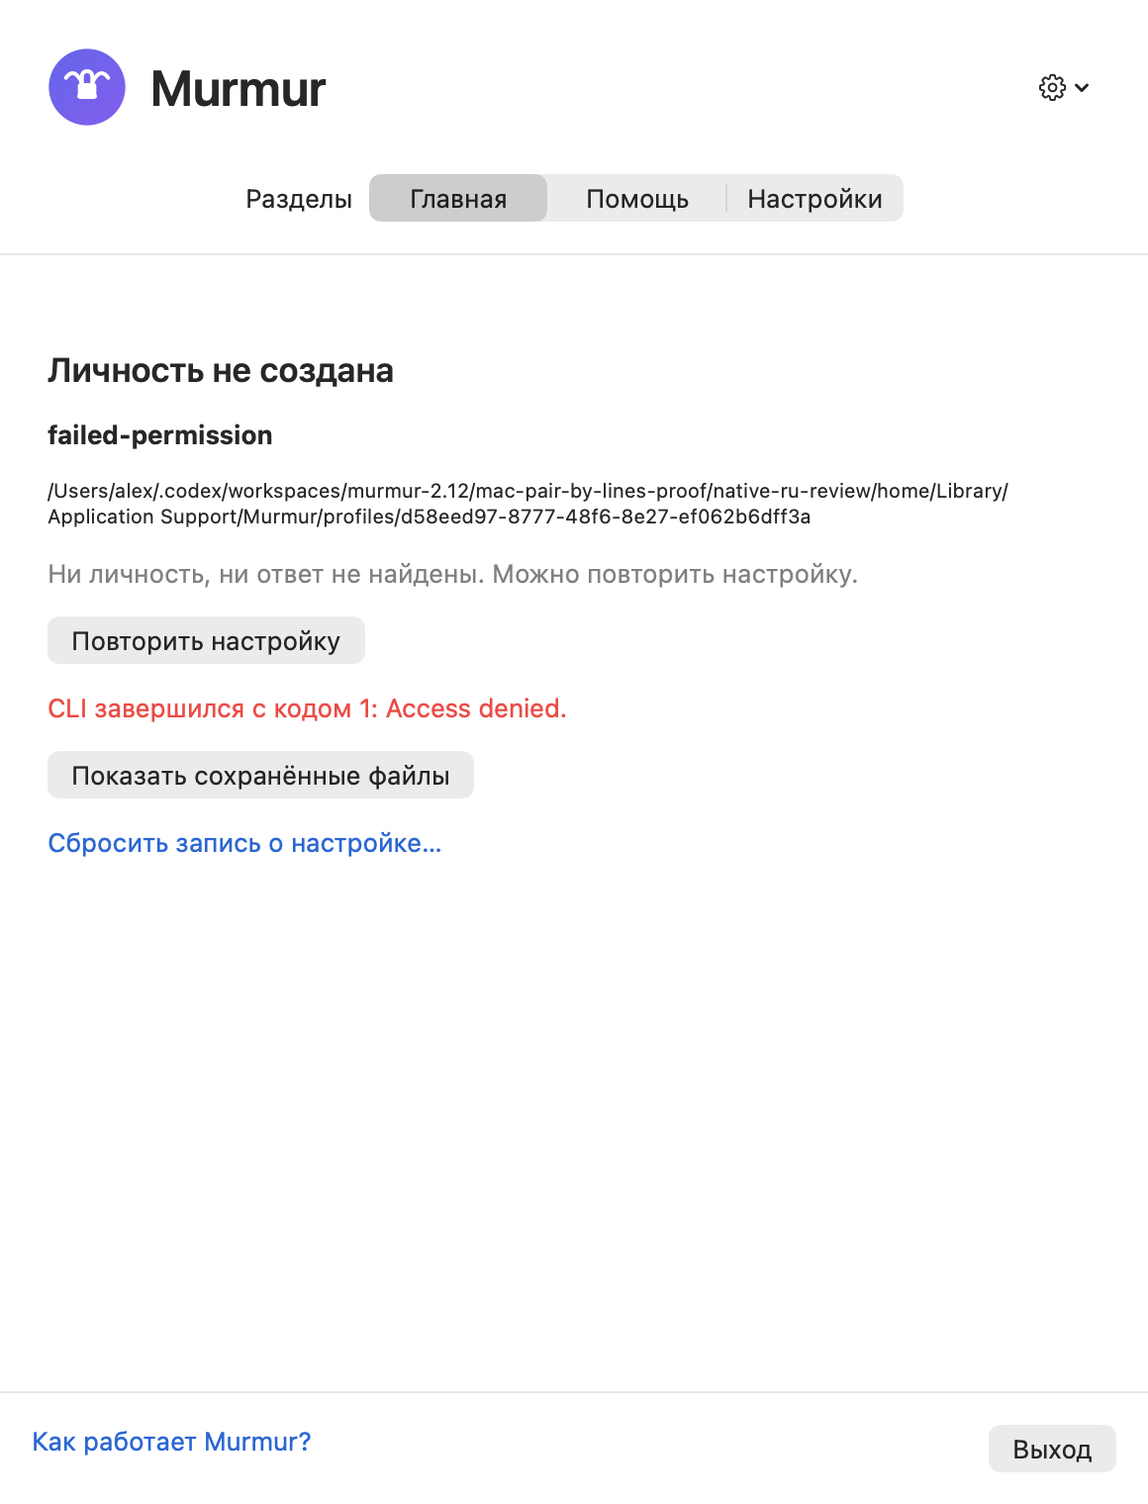
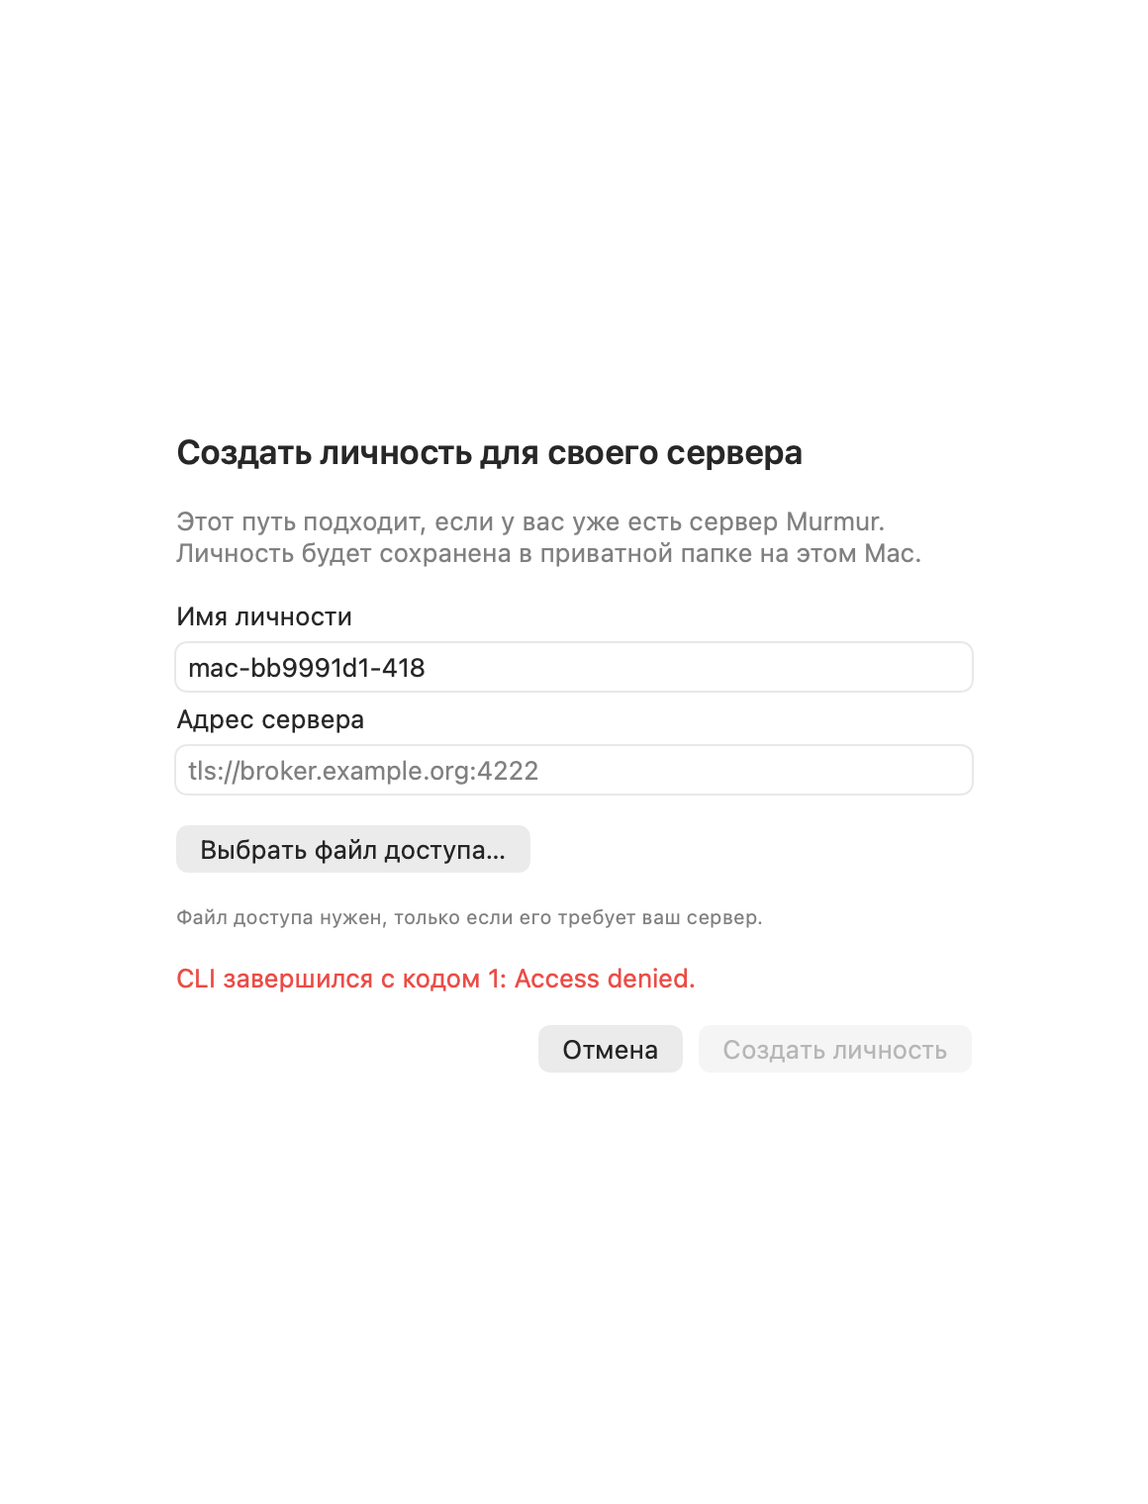
fix(mac): guard recovery pairing and preserve setup diagnostics

diff --git a/apps/macos-menubar/evidence/recovery-guards/render.swift b/apps/macos-menubar/evidence/recovery-guards/render.swift
@@ -1,0 +1,59 @@
+import AppKit
+import SwiftUI
+import MurmurTrayCore
+
+@main struct RecoveryEvidence {
+    @MainActor static func capture<V: View>(_ view: V, to path: URL) throws {
+        let host = NSHostingView(rootView: view.frame(width: 580, height: 720)
+            .background(Color(nsColor: .windowBackgroundColor)).environment(\.colorScheme, .light))
+        host.frame = NSRect(x: 0, y: 0, width: 580, height: 720)
+        let window = NSWindow(contentRect: host.frame, styleMask: [.borderless], backing: .buffered, defer: false)
+        window.appearance = NSAppearance(named: .aqua); window.contentView = host
+        host.layoutSubtreeIfNeeded(); host.displayIfNeeded()
+        let bitmap = host.bitmapImageRepForCachingDisplay(in: host.bounds)!
+        host.cacheDisplay(in: host.bounds, to: bitmap)
+        try bitmap.representation(using: .png, properties: [:])!.write(to: path)
+    }
+    @MainActor static func main() async throws {
+        let root = URL(fileURLWithPath: CommandLine.arguments[1]), language = CommandLine.arguments[2], stage = CommandLine.arguments[3]
+        precondition(FileManager.default.homeDirectoryForCurrentUser.path == root.appendingPathComponent("home").path)
+        _ = NSApplication.shared
+        UserDefaults.standard.setVolatileDomain(["interfaceLanguage": language], forName: UserDefaults.argumentDomain)
+        let pictures = root.appendingPathComponent("screenshots")
+        try FileManager.default.createDirectory(at: pictures, withIntermediateDirectories: true)
+        let model = TrayModel(startRuntime: false)
+        model.profile = try ProfileBinding(dataDirectory: root.appendingPathComponent("unavailable-identity").path)
+        model.agentID = "current-identity"
+        precondition(!model.busy && !model.canUseInvitation)
+        try capture(MurmurHomeView(model: model).firstRun.padding(24), to: pictures.appendingPathComponent("\(stage)-recovery-\(language).png"))
+        model.beginInviting()
+        precondition(model.showCreateProfileSheet == (stage == "before"))
+        print("PASS \(stage) \(language): bound Identity with unavailable status opens new Identity form = \(model.showCreateProfileSheet)")
+        let setup = TrayModel(startRuntime: false)
+        let access = root.appendingPathComponent("access-key.txt")
+        try "test-only\nsecond-line".write(to: access, atomically: true, encoding: .utf8)
+        setup.creationAgentID = "new-identity"; setup.creationServer = "nats://server.example.invalid:4222"; setup.creationAccessFile = access
+        setup.createOwnProfile(agentID: setup.creationAgentID, server: setup.creationServer, accessFile: access)
+        for _ in 0..<800 {
+            if !setup.busy { break }
+            try await Task.sleep(for: .milliseconds(50))
+        }
+        precondition(!setup.busy && setup.creationError != nil && setup.profile == nil)
+        let expected = stage == "before" ? ProbeError.failed(1).localizedDescription : L10n.text("The Server access key must be one line. Ask for the correct key and save it again.")
+        precondition(setup.creationError == expected && !setup.creationError!.contains("test-only"))
+        try capture(CreateProfileSheet(model: setup), to: pictures.appendingPathComponent("\(stage)-access-error-\(language).png"))
+        print("PASS \(stage) \(language): invalid access file presentation, no input value displayed")
+        let snapshot = try DoctorSnapshot.decode(JSONSerialization.data(withJSONObject: ["schema":"murmur.doctor/1", "generatedAt":"2026-09-24T16:00:00Z", "stages":[["id":"roundtrip", "state":"ok", "detail":"fixture", "elapsedMs":42]]]))
+        let row = snapshot.rows().first { $0.id == "roundtrip" }!
+        precondition((row.title == L10n.text("Reply")) == (stage == "before"))
+        try capture(VStack(alignment: .leading, spacing: 24) {
+            Text(L10n.text("Connection check")).font(.title2.weight(.semibold))
+            Label("\(row.title): \(row.detail)", systemImage: row.symbol)
+            Divider()
+            Text(L10n.text("Paste colleague's Reply")).font(.title2.weight(.semibold))
+            Text(L10n.text("Reply")).font(.headline)
+        }.padding(24), to: pictures.appendingPathComponent("\(stage)-doctor-reply-\(language).png"))
+        print("PASS \(stage) \(language): Doctor roundtrip and pairing title separation")
+        print("3 native review observations passed")
+    }
+}

diff --git a/apps/macos-menubar/Tests/MurmurTrayCoreTests/OnboardingTests.swift b/apps/macos-menubar/Tests/MurmurTrayCoreTests/OnboardingTests.swift
@@ -77,6 +77,43 @@ func runOnboardingChecks(fixtures: URL) throws -> Int {
         }
         count += 1; print("PASS onboarding: \(name)")
     }
+    for (code, message) in [
+        ("onboarding.token-file-invalid", "The Server access key must be one line. Ask for the correct key and save it again."),
+        ("onboarding.token-file-not-found", "The Server access file was not found. Choose it again."),
+        ("onboarding.token-file-access-denied", "The Server access file cannot be opened. Choose a file your account can read.")
+    ] {
+        for prefix in ["", "token=fixture-value-never-display\n"] {
+            try scenario("init recognizes exact access-file code without exposing stderr: \(code), prefixed=\(!prefix.isEmpty)") { f in
+                let output = f.directory.appendingPathComponent("error-output")
+                try (prefix + code + "\n").write(to: output, atomically: true, encoding: .utf8)
+                try ("#!/bin/sh\n/bin/cat " + onboardingShell(output.path) + " >&2\nexit 1\n")
+                    .write(to: f.executable, atomically: true, encoding: .utf8)
+                try FileManager.default.setAttributes([.posixPermissions: 0o700], ofItemAtPath: f.executable.path)
+                do {
+                    _ = try f.client().initialize(f.plan, brokerURL: "nats://server.example.invalid:4222")
+                    throw CheckFailure(message: "Expected access-file refusal")
+                } catch let error as OnboardingError {
+                    try check(error.localizedDescription == L10n.text(message), "Known code uses a fixed human sentence")
+                    try check(!error.localizedDescription.contains("fixture-value"), "Raw stderr is never shown")
+                }
+                try check(!FileManager.default.fileExists(atPath: f.plan.profile.dataDirectory), "Failure cannot select or create an Identity")
+            }
+        }
+    }
+    for output in ["token=fixture-value-never-display", "onboarding.token-file-unknown",
+                   "onboarding.token-file-invalid fixture-value-never-display", "token=onboarding.token-file-invalid"] {
+        try scenario("unknown or decorated access-file stderr stays hidden") { f in
+            try ("#!/bin/sh\nprintf '%s\\n' " + onboardingShell(output) + " >&2\nexit 1\n")
+                .write(to: f.executable, atomically: true, encoding: .utf8)
+            try FileManager.default.setAttributes([.posixPermissions: 0o700], ofItemAtPath: f.executable.path)
+            do {
+                _ = try f.client().initialize(f.plan, brokerURL: "nats://server.example.invalid:4222")
+                throw CheckFailure(message: "Expected hidden stderr")
+            } catch let error as ProbeError {
+                guard case .failed(1) = error else { throw CheckFailure(message: "Unrecognized credential-bearing text escaped the filter") }
+            }
+        }
+    }
     try scenario("join line goes only to stdin and returns the Reply for the clipboard") { f in
         let journal = OnboardingJournal(applicationDirectory: f.plan.applicationRoot)
         let result = try f.client().join(f.plan, invitationLine: "  MURMUR:synthetic-invitation\n", journal: journal)

diff --git a/apps/macos-menubar/evidence/pairing-native.swift b/apps/macos-menubar/evidence/pairing-native.swift
@@ -72,7 +72,9 @@ import MurmurTrayCore
                                    accessFile: name == "access-file" ? invalidAccess : nil)
             try await settled(model)
             precondition(model.creationError == expected && model.pairingError == nil && model.profile == nil)
-            try capture(MurmurHomeView(model: model), to: pictures.appendingPathComponent("after-init-\(name)-\(language).png"), height: 760)
+            // Capture the error-bearing component without exposing the recovery
+            // screen's absolute temporary profile path in published evidence.
+            try capture(CreateProfileSheet(model: model), to: pictures.appendingPathComponent("after-init-\(name)-\(language).png"), height: 760)
             precondition(model.pendingCanRetryCreation)
             model.discardEmptySetup()
             precondition(!model.hasPendingSetup)
@@ -178,6 +180,11 @@ import MurmurTrayCore
         let afterBlockedJoin = try Data(contentsOf: configFile)
         precondition(!first.showPairingSheet && first.profile == originalProfile && afterBlockedJoin == before)
         precondition(!first.hasPendingSetup && UserDefaults.standard.string(forKey: "profileDirectory") == selectedDirectory)
+        first.beginInviting()
+        let afterBlockedInvite = try Data(contentsOf: configFile)
+        precondition(!first.showCreateProfileSheet && !first.showPairingSheet && first.profile == originalProfile && afterBlockedInvite == before)
+        precondition(UserDefaults.standard.string(forKey: "profileDirectory") == selectedDirectory)
+        print("PASS native \(language): unavailable current Identity cannot open creation through Invite a colleague")
         first.status = verifiedStatus
         precondition(first.canUseInvitation && first.invitationBlockReason == nil)
         print("PASS native \(language): unverified current Identity explains blocked Invitation action and stays unchanged")
@@ -226,6 +233,6 @@ import MurmurTrayCore
         clipboard.clearContents()
         print("PASS native \(language): public-address prompt, credential gate, clipboard Invitation, legacy/Cf/quoted stdin join, clipboard Reply, legacy/Cf/quoted stdin add-peer, both Contacts verified, Reply recovery, cancellation, first-run inviter, existing Identity form, different tokens refused unchanged, identical Cf quote accepted with Identity and keys preserved, existing Reply and both Contacts, Server conflict unchanged, changed selection refused")
         print("PASS native \(language): copied Invitation stays out of visible output, with or without a Server key")
-        print("22 native checks passed; no Service or network exchange claimed")
+        print("23 native checks passed; no Service or network exchange claimed")
     }
 }

diff --git a/apps/macos-menubar/Sources/MurmurTrayCore/CLIProbe.swift b/apps/macos-menubar/Sources/MurmurTrayCore/CLIProbe.swift
@@ -79,8 +79,10 @@ public struct CLIProbe: Sendable {
         process.environment = childEnvironment
         try process.run()
         if let stdin, let input {
-            // Never put Invitations in argv or a file. A non-reading child must
-            // still time out; suppress SIGPIPE if it exits before reading.
+            // Pasted lines go through stdin, not argv. The CLI still persists
+            // settings and the requested recovery Reply; stdout/stderr are
+            // captured in private temporary files above.
+            // A non-reading child must still time out; suppress SIGPIPE on early exit.
             try? stdin.fileHandleForReading.close()
             let writer = stdin.fileHandleForWriting
             _ = fcntl(writer.fileDescriptor, F_SETNOSIGPIPE, 1)
@@ -117,6 +119,13 @@ public struct CLIProbe: Sendable {
                 throw PairingError.from(code: text.split(whereSeparator: \.isNewline).last.map(String.init), command: arguments.first)
             }
             let errorText = String(data: try Data(contentsOf: stderr), encoding: .utf8) ?? ""
+            // Recognize only exact, known init codes before screening raw text.
+            // A code containing "token" is not a credential; its stderr payload
+            // is never included in the localized message.
+            if arguments.first == "init",
+               let known = OnboardingError.fromCLI(code: errorText.split(whereSeparator: \.isNewline).last.map(String.init)) {
+                throw known
+            }
             let firstLine = errorText.split(whereSeparator: \.isNewline).first.map(String.init) ?? ""
             // CLI promises a human-readable reason. Keep a bounded single line,
             // suppressing obvious credentials/URLs rather than copying a trace.

diff --git a/apps/macos-menubar/Sources/MurmurTrayCore/ProfileOnboarding.swift b/apps/macos-menubar/Sources/MurmurTrayCore/ProfileOnboarding.swift
@@ -2,6 +2,16 @@ import Foundation
 
 public enum OnboardingError: Error, LocalizedError, Sendable {
     case invalidAgent, invalidServer, invalidFile, unsafeLocation, replyExists, invalidReceipt
+    case invalidAccessFile, accessFileMissing, accessFileDenied
+
+    static func fromCLI(code: String?) -> Self? {
+        switch code {
+        case "onboarding.token-file-invalid": .invalidAccessFile
+        case "onboarding.token-file-not-found": .accessFileMissing
+        case "onboarding.token-file-access-denied": .accessFileDenied
+        default: nil
+        }
+    }
     public var errorDescription: String? {
         switch self {
         case .invalidAgent: L10n.text("Use an agent name with letters, numbers, hyphens or underscores")
@@ -10,6 +20,9 @@ public enum OnboardingError: Error, LocalizedError, Sendable {
         case .unsafeLocation: L10n.text("Murmur could not use its private profile folder")
         case .replyExists: L10n.text("A reply file already exists. Choose the created profile to continue")
         case .invalidReceipt: L10n.text("Profile creation was not confirmed. Your files were kept")
+        case .invalidAccessFile: L10n.text("The Server access key must be one line. Ask for the correct key and save it again.")
+        case .accessFileMissing: L10n.text("The Server access file was not found. Choose it again.")
+        case .accessFileDenied: L10n.text("The Server access file cannot be opened. Choose a file your account can read.")
         }
     }
 }

diff --git a/apps/macos-menubar/Tests/MurmurTrayCoreTests/LocalizationTests.swift b/apps/macos-menubar/Tests/MurmurTrayCoreTests/LocalizationTests.swift
@@ -40,5 +40,14 @@ func runLocalizationChecks() throws -> Int {
     try check(L10n.localized("unrecognized diagnostic code", language: .russian) == "unrecognized diagnostic code",
               "An additive diagnostic remains visible")
     passed("unknown text remains visible")
+    let savedDomain = UserDefaults.standard.volatileDomain(forName: UserDefaults.argumentDomain)
+    defer { UserDefaults.standard.setVolatileDomain(savedDomain, forName: UserDefaults.argumentDomain) }
+    for (language, title, reply) in [("en", "Message exchange", "Reply"), ("ru", "Обмен сообщениями", "Ответ")] {
+        UserDefaults.standard.setVolatileDomain(["interfaceLanguage": language], forName: UserDefaults.argumentDomain)
+        let roundtripIndex = DoctorSnapshot.stageIDs.firstIndex(of: "roundtrip")!
+        try check(DoctorSnapshot.titles[roundtripIndex] == title && L10n.text("Reply") == reply && title != reply,
+                  "Doctor exchange and pairing Reply have separate localized meanings")
+        passed("Doctor roundtrip is distinct from pairing Reply: \(language)")
+    }
     return count
 }

diff --git a/apps/macos-menubar/Sources/MurmurMenuBar/MurmurHomeView.swift b/apps/macos-menubar/Sources/MurmurMenuBar/MurmurHomeView.swift
@@ -118,7 +118,9 @@ struct MurmurHomeView: View {
                         }
                         Text(L10n.text("Paste the Invitation line sent by your colleague."))
                             .font(.callout).foregroundStyle(.secondary)
-                        Button(L10n.text("Invite a colleague")) { model.beginInviting() }.disabled(model.busy)
+                        Button(L10n.text("Invite a colleague")) { model.beginInviting() }
+                            .disabled(model.busy || !model.canUseInvitation)
+                            .help(model.invitationBlockReason ?? L10n.text("Invite a colleague"))
                         Divider()
                         navigationRow("I do not have an invitation yet", detail: "How to get one or connect to your own server") { entry = "no-invitation" }
                         navigationRow("I have used Murmur before", detail: "Open settings already saved on this Mac") { entry = "restore" }

diff --git a/apps/macos-menubar/Sources/MurmurTrayCore/Doctor.swift b/apps/macos-menubar/Sources/MurmurTrayCore/Doctor.swift
@@ -25,7 +25,7 @@ public struct DoctorSnapshot: Decodable, Sendable {
         public let elapsedMs: Int?
     }
     public static let stageIDs = ["config", "daemon", "broker", "peers", "roundtrip", "wake"]
-    public static var titles: [String] { [L10n.text("Settings"), L10n.text("Service"), L10n.text("Broker"), L10n.text("Connections"), L10n.text("Reply"), L10n.text("Agent delivery")] }
+    public static var titles: [String] { [L10n.text("Settings"), L10n.text("Service"), L10n.text("Broker"), L10n.text("Connections"), L10n.text("Message exchange"), L10n.text("Agent delivery")] }
     public let schema: String
     public let generatedAt: String
     public let stages: [Stage]

diff --git a/apps/macos-menubar/Sources/MurmurMenuBar/MurmurMenuBar.swift b/apps/macos-menubar/Sources/MurmurMenuBar/MurmurMenuBar.swift
@@ -429,7 +429,8 @@ final class TrayModel: ObservableObject {
         if mode == .invite { makeInvitation() }
     }
     func beginInviting() {
-        if canPair { beginPairing(.invite); return }
+        guard canUseInvitation else { return }
+        if profile != nil { beginPairing(.invite); return }
         beginOwnProfile()
         inviteAfterCreation = showCreateProfileSheet
     }

diff --git a/apps/macos-menubar/evidence/recovery-guards/README.md b/apps/macos-menubar/evidence/recovery-guards/README.md
@@ -1,0 +1,30 @@
+# Recovery guard and setup errors — native component evidence
+
+Before: `aed842d1e442fd1499c5b7a184f774636103b8e3`. After: this PR's head.
+macOS 26.6.2 arm64, Swift 6.4. EN and RU use the same native views and resources.
+
+`render.swift` links the production model/views and `MurmurTrayCore`, excluding
+`DesktopEntry.swift`. For capture only, a private source copy changes the
+`firstRun` accessor from private to internal; no UI logic is changed. Arguments:
+`<temporary-root> <en|ru> <before|after>`. HOME and CFFIXED_USER_HOME both point to
+`<temporary-root>/home`; inherited MURMUR/NATS/profile overrides are cleared.
+`MURMUR_BIN` explicitly selects the verified CLI from `4772afa`.
+
+- Recovery captures render the real `firstRun` view with a bound test Identity
+  and unavailable status. The harness invokes `beginInviting`: the baseline
+  opens a new-Identity form; the fixed version refuses it.
+- Access-file captures render `CreateProfileSheet` with the actual model error
+  from a multiline disposable access file sent to the real CLI. They show the
+  error-bearing component, not a button-click walkthrough. No Server is contacted.
+- Doctor captures compare the real `DoctorSnapshot.rows()` output with pairing
+  labels in a small native comparison view. The 42 ms measurement is a fixture.
+
+No Invitation, credential or absolute local path is displayed. All profiles,
+access files and preferences belong to temporary homes and are removed after
+capture. Private raw logs are kept outside git; the committed summary uses
+relative paths only. The older init-error captures in `../pair-by-lines/` were
+replaced with the same path-free component approach.
+
+**GUI-шаг не прогнан, заблокирован Accessibility.** `humanGuiPass mac = false`.
+No Automation/Accessibility permissions were requested or changed. No live
+profile, LaunchAgent, installed app or broker was changed.

diff --git a/apps/macos-menubar/README.md b/apps/macos-menubar/README.md
@@ -98,8 +98,12 @@ Windows UX не входят в эту итерацию. Патч Copy diagnosti
 Ошибки этих команд переводятся по стабильным кодам; сырой stderr не показывается.
 Ошибки `init` сохраняют прежнюю причину создания Личности: они не предлагают
 просить у коллеги новую строку. Если статус выбранной Личности недоступен,
-«У меня есть приглашение» выключена с подсказкой обновить состояние;
+«У меня есть приглашение» и «Пригласить коллегу» выключены с подсказкой обновить состояние;
 новая Личность вместо выбранной не создаётся.
+Коды ошибок файла доступа из `init` переводятся в предложения en/ru до
+фильтрации stderr; содержимое файла и неизвестные строки с ключами не выводятся.
+Этап `roundtrip` в Doctor называется «Обмен сообщениями», отдельно от Ответа
+при знакомстве.
 
 При первом вступлении приложение выбирает новую приватную папку; имя Личности
 можно изменить. Для выбранной Личности используется её текущая папка.

diff --git a/apps/macos-menubar/evidence/pair-by-lines/README.md b/apps/macos-menubar/evidence/pair-by-lines/README.md
@@ -57,3 +57,10 @@ truncated by ordinary line breaks.
 
 See `verification.txt` for commands and counts. The final commit is the PR head;
 images and evidence belong to that source revision, not an installed release.
+
+The recovery follow-up adds a 23rd native check per language: “Invite a
+colleague” cannot open creation when the selected Identity's status is missing.
+Its counts and path-free before/after captures are in `../recovery-guards/`.
+The six init-error images here were replaced with `CreateProfileSheet` component
+captures, so temporary profile paths no longer appear. `verification.txt`
+preserves the original P1 run; the follow-up has its own verification log.
